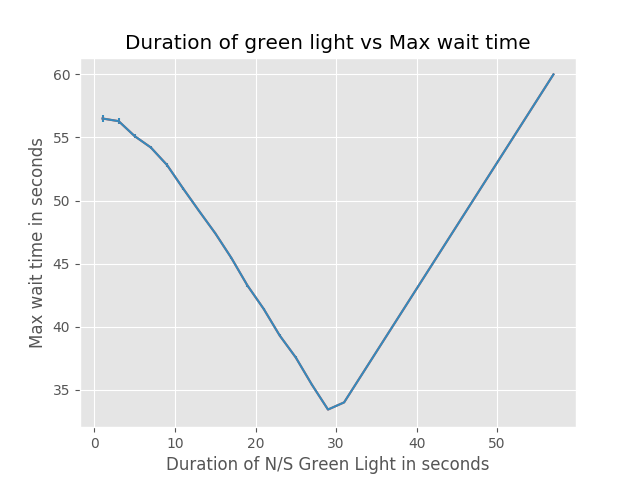
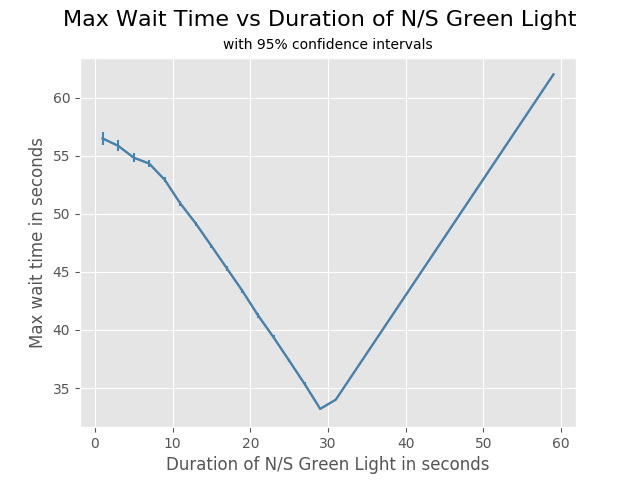
switch to plot confidence intervals

diff --git a/stoplight.py b/stoplight.py
@@ -189,7 +189,22 @@ def run_sim(NS_green_time, total_time):
         for k,v in Stats.items():
             print(k,':',v)
 
-def visualize_data(x, y, yerr, metric):
+def calculate_ci(sample_vals):
+    """
+    :param sample_vals: a list of sample statistics values (means or maxs)
+    :return: a list of 95% confidence intervals
+    """
+    n = len(sample_vals)
+    # compute the average of all the means for this green time parameter
+    sample_mean = np.mean(sample_vals)
+    # compute the 95% confidence intervals for this green time parameter
+    std_error_mean = np.std(sample_vals) / np.sqrt(n)
+    margin_of_error = 1.96 * std_error_mean
+    intervals = (sample_mean - margin_of_error,
+                 sample_mean + margin_of_error)
+    return intervals
+
+def visualize_data(x, y, conf_intervals, metric):
     """
     A function for visualizating the plot
     :param x: An array plotted on the y-axis which contains all the green times during the entire duration of the simulation
@@ -201,13 +216,16 @@ def visualize_data(x, y, yerr, metric):
     """
     plt.style.use('ggplot')
     plt.plot(x, y)
-    plt.errorbar(x, y, yerr=yerr)
-    plt.title("Duration of green light vs {} wait time".format(metric))
+    plt.errorbar(x, y, yerr=[(top-bot)/2 for top,bot in conf_intervals])
+    plt.suptitle("{} Wait Time vs Duration of N/S Green Light".format(metric), fontsize=16)
+    plt.title("with 95% confidence intervals", fontsize=10)
     plt.xlabel("Duration of N/S Green Light in seconds")
     plt.ylabel("{} wait time in seconds".format(metric))
     plt.interactive(False)
     plt.savefig('./{}_plot.png'.format(metric))
     plt.show()
+
+
 
 
 if __name__ == '__main__':
@@ -216,21 +234,21 @@ if __name__ == '__main__':
     green_times = []
     sample_means = []
     sample_maxs = []
-    std_error_means = []
-    std_error_maxs = []
+    mean_intervals = []
+    max_intervals = []
     # to see print statements for each car, set this variable to True
     print_sim = False
-    # set the sample size n for each green_time parameter
-    n = 100
-    print('N =', n)
+    # set the sample size N for each green_time parameter
+    N = 100
+    print('N =', N)
     # iterate over increasing green_time parameter values between 1 and 59 seconds
     # (red light time values are always 60 seconds - green_time value)
-    for green_time in range(1,59,2):
+    for green_time in range(1, 60, 2):
         # instantiate mean and max collectors for each parameter value
         means = []
         maxs = []
-        # run n simulations for each parameter value
-        for i in range(n):
+        # run N simulations for each parameter value
+        for i in range(N):
             # reset the environment
             env = simpy.Environment()
 
@@ -267,23 +285,24 @@ if __name__ == '__main__':
 
         # compute the average of all the means for this green time parameter
         sample_mean = np.mean(means)
-        # compute the standard error of the mean for this green time parameter
-        std_error_mean = np.std(means) / np.sqrt(n)
+        # compute the 95% confidence intervals around the mean
+        confidence_interval = calculate_ci(means)
+        mean_intervals.append(confidence_interval)
+
         # compute the average of all the max times for this green time parameter
         sample_max = np.mean(maxs)
-        # compute the standard error of the max for this green time parameter
-        std_error_max = np.std(maxs) / np.sqrt(n)
+        # compute the 95% confidence intervals around the max
+        confidence_interval = calculate_ci(maxs)
+        max_intervals.append(confidence_interval)
 
         # collect the sample means, sample maxs, and their standard error
         # to plot against each green time parameter
         sample_means.append(sample_mean)
-        std_error_means.append(std_error_mean)
         sample_maxs.append(sample_max)
-        std_error_maxs.append(std_error_max)
         green_times.append(green_time)
 
     print('Process took', time.time() - start, 'seconds')
 
     # plots of the max and mean against the green time parameters are shown and saved in the working directory
-    visualize_data(x=green_times, y=sample_maxs, yerr=std_error_maxs, metric='Max')
-    visualize_data(x=green_times, y=sample_means, yerr=std_error_means, metric='Mean')
+    visualize_data(x=green_times, y=sample_maxs, conf_intervals=max_intervals, metric='Max')
+    visualize_data(x=green_times, y=sample_means, conf_intervals=mean_intervals, metric='Mean')
